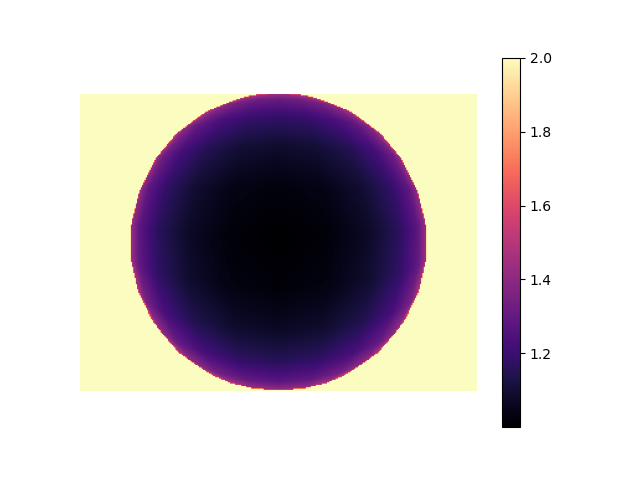
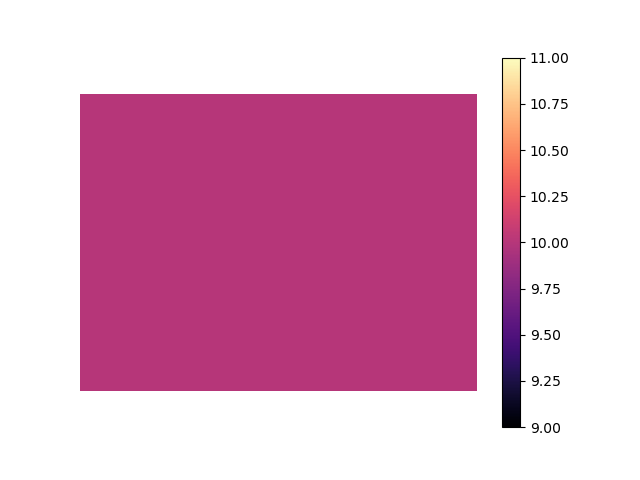
sphere obtacle and scene classes

diff --git a/pytorch3d/mesh_to_depth.py b/pytorch3d/mesh_to_depth.py
@@ -1,7 +1,7 @@
 import torch
 import matplotlib.pyplot as plt
 from pytorch3d.io import load_objs_as_meshes, load_obj
-from pytorch3d.structures import Meshes
+from pytorch3d.structures import Meshes, join_meshes_as_batch, join_meshes_as_scene
 from pytorch3d.vis.plotly_vis import AxisArgs, plot_batch_individually, plot_scene
 from pytorch3d.vis.texture_vis import texturesuv_image_matplotlib
 import utils.plot_image_grid as plot_image_grid
@@ -22,7 +22,7 @@ from pytorch3d.renderer import (
 # Camera globals
 IMG_SIZE = (240, 320)           # (H, W) of physical depth cam images AFTER the preprocessing pipeline
 FOV = 60                        # Field of view in degrees, init to correct value later
-MAX_MEASURABLE_DEPTH = 2.0     # Maximum measurable depth, initialized to k here but is 10 IRL
+MAX_MEASURABLE_DEPTH = 10.0     # Maximum measurable depth, initialized to k here but is 10 IRL
 
 # Get GPU if available (it should)
 device = torch.device("cuda") if torch.cuda.is_available() else torch.device("cpu")
@@ -33,7 +33,86 @@ print(f'Using device: {device}')
 obj_paths = ["./room_mesh/model.obj"]
 obj_paths = ["./sphere.obj"] # We do not need a .mtl file for mapping mesh to depth. If we wanna visualize we need mtl (i think)...
 
-meshes = load_objs_as_meshes(obj_paths, device=device) # Used for multiple meshes originally, could use load_obj for single mesh (faster..?)
+class SphereMeshObstacle:
+    def __init__(self, 
+                 device: torch.device, 
+                 path: str,
+                 radius: float,
+                 center_position: torch.Tensor):
+        self.device = device
+        self.path = path                                    # Assumes path points to UNIT sphere .obj file
+        self.radius = radius
+        self.center_position = center_position.to(device)   # Centre of the sphere in world frame
+        # May include textures later for visualization in non-depth mode
+
+        self.mesh = load_objs_as_meshes([path], device=self.device)
+        self.mesh.scale_verts_(scale=self.radius)
+        self.mesh.offset_verts_(vert_offsets_packed=self.center_position)
+    
+    def resize(self, new_radius: float):
+        self.mesh.scale_verts_(scale=new_radius/self.radius)
+        self.radius = new_radius
+    
+    def move(self, new_center_position: torch.Tensor):
+        new_center_position = new_center_position.to(self.device)
+        self.mesh.offset_verts_(vert_offsets_packed=new_center_position-self.center_position)
+        self.center_position = new_center_position
+
+    def set_device(self, new_device: torch.device):
+        self.device = new_device
+        self.mesh.to(new_device)
+        self.center_position.to(new_device)
+    
+
+class SphereScene:
+    def __init__(self, 
+                 device: torch.device, 
+                 sphere_obstacles: list):
+        self.device = device
+        self.sphere_obstacles = sphere_obstacles # List of SphereMeshObstacle objects
+        self.meshes = [sphere.mesh for sphere in sphere_obstacles]
+        self.scene = join_meshes_as_scene(meshes=self.meshes, include_textures=False) # May inlude textures later
+
+    def resize_sphere(self, sphere_idx: int, new_radius: float):
+        self.sphere_obstacles[sphere_idx].resize(new_radius)
+    
+    def move_sphere(self, sphere_idx: int, new_center_position: torch.Tensor):
+        self.sphere_obstacles[sphere_idx].move(new_center_position)
+    
+    def add_sphere(self, new_sphere: SphereMeshObstacle):
+        self.sphere_obstacles.append(new_sphere)
+        self.meshes.append(new_sphere.mesh)
+        self.scene = join_meshes_as_scene(meshes=self.meshes, include_textures=False)
+    
+    def remove_sphere(self, sphere_idx: int):
+        self.sphere_obstacles.pop(sphere_idx)
+        self.meshes.pop(sphere_idx)
+        self.scene = join_meshes_as_scene(meshes=self.meshes, include_textures=False)
+    
+    
+    def set_device(self, new_device: torch.device):
+        self.device = new_device
+        for sphere in self.sphere_obstacles:
+            sphere.set_device(new_device)
+    
+
+    
+# Test sphere obstacle and scene
+# For the position vectors, +X points left, and +Y points up and +Z points inwards
+pos1 = torch.tensor([0.0, 0.0, 0.0])
+pos2 = torch.tensor([0.0, 5.0, 0.0])
+#pos3 = torch.tensor([4.0, 0.0, 1.5])
+unit_sphere_path = "./sphere.obj"
+sphere1 = SphereMeshObstacle(device=device, path=unit_sphere_path, radius=2.0, center_position=pos1)
+#sphere2 = SphereMeshObstacle(device=device, path=unit_sphere_path, radius=2.0, center_position=pos2)
+#sphere3 = SphereMeshObstacle(device=device, path=unit_sphere_path, radius=4.0, center_position=pos3)
+
+# Sphere 3 is only partly visible, as it is at the max measurable depth
+
+spheres = [sphere1]#, sphere2]#, sphere3]
+spherescene = SphereScene(device=device, sphere_obstacles=spheres)
+meshes = spherescene.scene
+
 
 # Initialize camera
 """
@@ -45,8 +124,26 @@ The transformation from world -> view happens after applying a rotation (R) and 
 """
  
 # In the sim we plan to get the R,T matrices from the drone and use them to update the camera object at evry timestep (must handle transfomations and stuff properly)
-R, T = look_at_view_transform(2, 10, 0)
+# For now we just initialize the camera to no rotation, looking at the origin from a distance of 10 units in the +Z direction
+R = torch.tensor([[1.0, 0.0, 0.0], [0.0, 1.0, 0.0], [0.0, 0.0, 1.0]]).unsqueeze(0).to(device)
+T = torch.zeros((1, 3)).to(device)
+T[0, 2] = -5.0
+print(f"R: {R}")
+print(f"T: {T}")
+
+#K = torch.zeros((1, 4, 4)).to(device)
+#K[0, :, :] = torch.tensor([[639.0849609375, 0.0, 644.4653930664062],[0.0, 639.0849609375, 364.2340393066406], [0.0, 0.0, 1.0], [0.0, 1.0, 0.0]])
 camera = FoVPerspectiveCameras(device=device, R=R, T=T, fov=FOV)
+
+R1 = look_at_rotation(camera_position=camera.get_camera_center(), at = pos1)[0].unsqueeze(0).to(device)
+print(f"R: {R1}")    
+camera.R = R
+
+camera1 = FoVPerspectiveCameras(device=device, R=R1, T=T, fov=FOV)
+
+
+pos = camera1.get_camera_center()
+print(f"Camera position: {pos}")
 
 # Initialize rasterizer
 # Rasterization maps the 3D mesh to a 2D image for the given camera.
@@ -56,11 +153,12 @@ raster_settings = RasterizationSettings(
     faces_per_pixel=1, # Keep at 1, dont change
 )
 rasterizer = MeshRasterizer(
-    cameras=camera, 
+    cameras=camera1, 
     raster_settings=raster_settings
 )
 
 fragments = rasterizer(meshes)
+#print(fragments)
 
 # **zbuf**: FloatTensor of shape (N, image_size, image_size, faces_per_pixel) giving the NDC z-coordinates of the nearest faces at each pixel, sorted in ascending z-order.
 zbuf = fragments.zbuf#.cpu().numpy() # (N, H, W, K), 
@@ -69,6 +167,8 @@ depth = torch.squeeze(zbuf) # Get only the depth values at each pixel. Shape: (H
 # In the zbuf object, the value -1.0 is used to indicate that there was no valid face at that pixel, while the value 0.0 is used to indicate that the face closest to the camera is at the pixel.
 # We set all -1 values to MAX_MEASURABLE_DEPTH as this is how such values are handled in the physical depth cam (could this be optimized with some raster settings or something?)
 depth[depth == -1.0] = MAX_MEASURABLE_DEPTH
+# For measurements beyond the max measurable depth, the depth value is also set to MAX_MEASURABLE_DEPTH
+depth[depth >= MAX_MEASURABLE_DEPTH] = MAX_MEASURABLE_DEPTH
 
 plt.figure()
 plt.imshow(depth.cpu().numpy(), cmap="magma")
